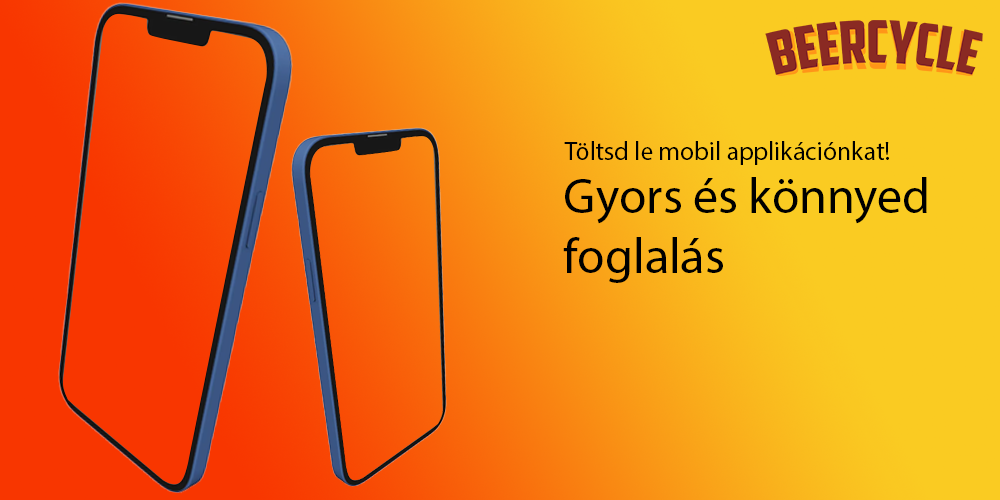
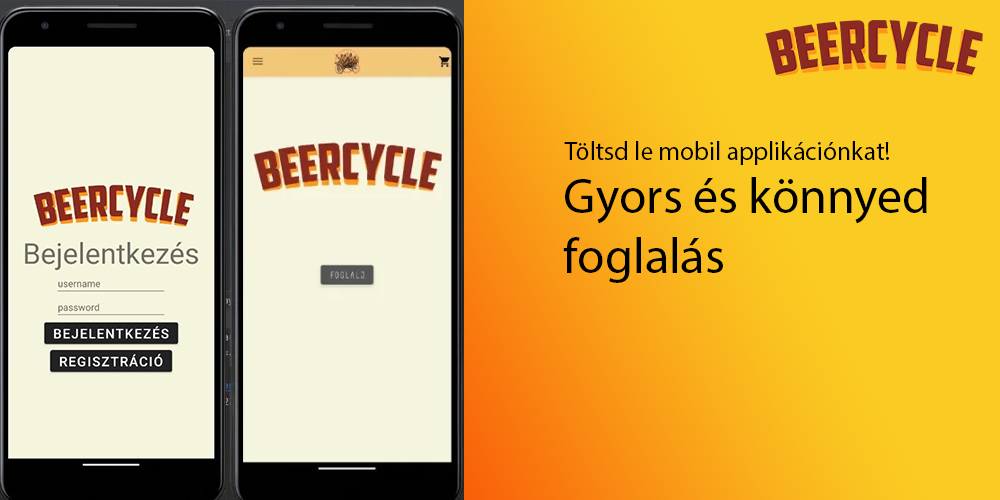
mobil setcion

diff --git a/src/Pages/MainPage.tsx b/src/Pages/MainPage.tsx
@@ -197,10 +197,12 @@ export function Fooldal() {
                 alt="The house from the offer."
                 src="/Images/mobilDownload.png"
             />
-            <Button sx={{ zIndex: 1, position: 'absolute' }}>
-                Letöltés
-            </Button>
-
+              <Link to='https://github.com/Bluver11/BeerCycleMobilApp'>
+        <button
+            className="absolute z-50 bg-bloodRed hover:bg-bloodRed  font-bold text-white text-xl py-4 px-8 rounded-xl hover:rounded-xl transition hover:scale-110 ease-in-out"
+            style={{ top: '60%', left: '50%'  }}>Letöltés
+        </button>
+    </Link>
         </section>
     </div>
 }
